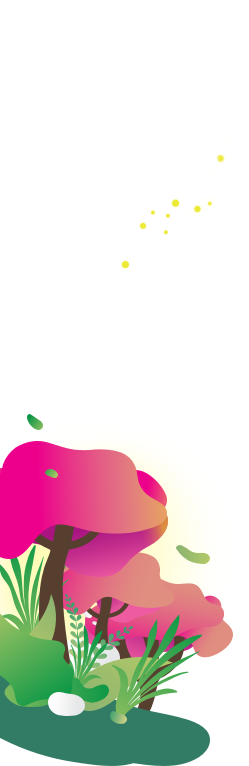
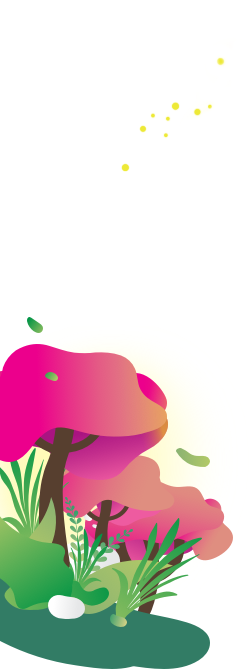
修正首頁圖片

diff --git a/css/public.css b/css/public.css
@@ -16,9 +16,9 @@ body { position: relative; display: inline-block; width: 100%; margin: 0; paddin
 
 .cent { display: inline-block; width: 100%; position: absolute; top: 10px; left: 0; z-index: 88; *zoom: 1; }
 .cent:after { display: table; content: ""; line-height: 0; clear: both; }
-.cent .C_boxs { display: inline-block; width: calc(100% - 249px - 838px); position: relative; }
-.cent .C_boxs .title_boxs { display: inline-block; width: 100%; position: absolute; top: 255px; left: -140px; }
-.cent .C_boxs .title_boxs img { width: 100%; max-width: 600px; }
-.cent .CL, .cent .CR { display: inline-block; width: 100%; }
-.cent .CL { max-width: 249px; float: left; }
-.cent .CR { max-width: 838px; float: right; }
+.cent .CL, .cent .CR { display: inline-block; }
+.cent .CL { width: 20%; float: left; *zoom: 1; }
+.cent .CL:after { display: table; content: ""; line-height: 0; clear: both; }
+.cent .CL .CLi { display: inline-block; width: 100%; max-width: 249px; float: left; }
+.cent .CR { width: 80%; float: right; }
+.cent .CR .CRi { display: inline-block; width: 100%; max-width: 1250px; }

diff --git a/scss/public.scss b/scss/public.scss
@@ -99,39 +99,32 @@ body {
   @include clearfix();
 
 
-  .C_boxs {
-    display: inline-block;
-    width: calc(100% - 249px - 838px);
-    position: relative;
-
-    .title_boxs {
-      display: inline-block;
-      width: 100%;
-      position: absolute;
-      top: 255px;
-      left: -140px;
-
-      img {
-        width: 100%;
-        max-width: 600px;
-      }
-    }
-  }
-
   .CL, .CR {
     display: inline-block;
-    width: 100%;
   }
 
   .CL {
-    max-width: 249px;
+    width: 20%;
     float: left;
-  }
-  .CR {
-    max-width: 838px;
-    float: right;
+    @include clearfix();
+    
+    .CLi {
+      display: inline-block;
+      width: 100%;
+      max-width: 249px;
+      float: left;
+    }
   }
 
+  .CR {
+    width: 80%;
+    float: right;
+    .CRi {
+      display: inline-block;
+      width: 100%;
+      max-width: 1250px;
+    }
+  }
 
 }
 

diff --git a/index.html b/index.html
@@ -29,11 +29,8 @@
     </div>
 
     <div class='cent'>
-      <div class='C_boxs'>
-        <div class='title_boxs'><img src="img/title2.png"></div>
-      </div>
-      <div class='CL'><img src="img/img03.png"></div>
-      <div class='CR'><img src="img/Big_img.png"></div>
+      <div class='CL'><img class='CLi' src="img/img03.png"></div>
+      <div class='CR'><img class='CRi' src="img/Big_img2.png"></div>
     </div>
 
     <div class='footer'></div>
